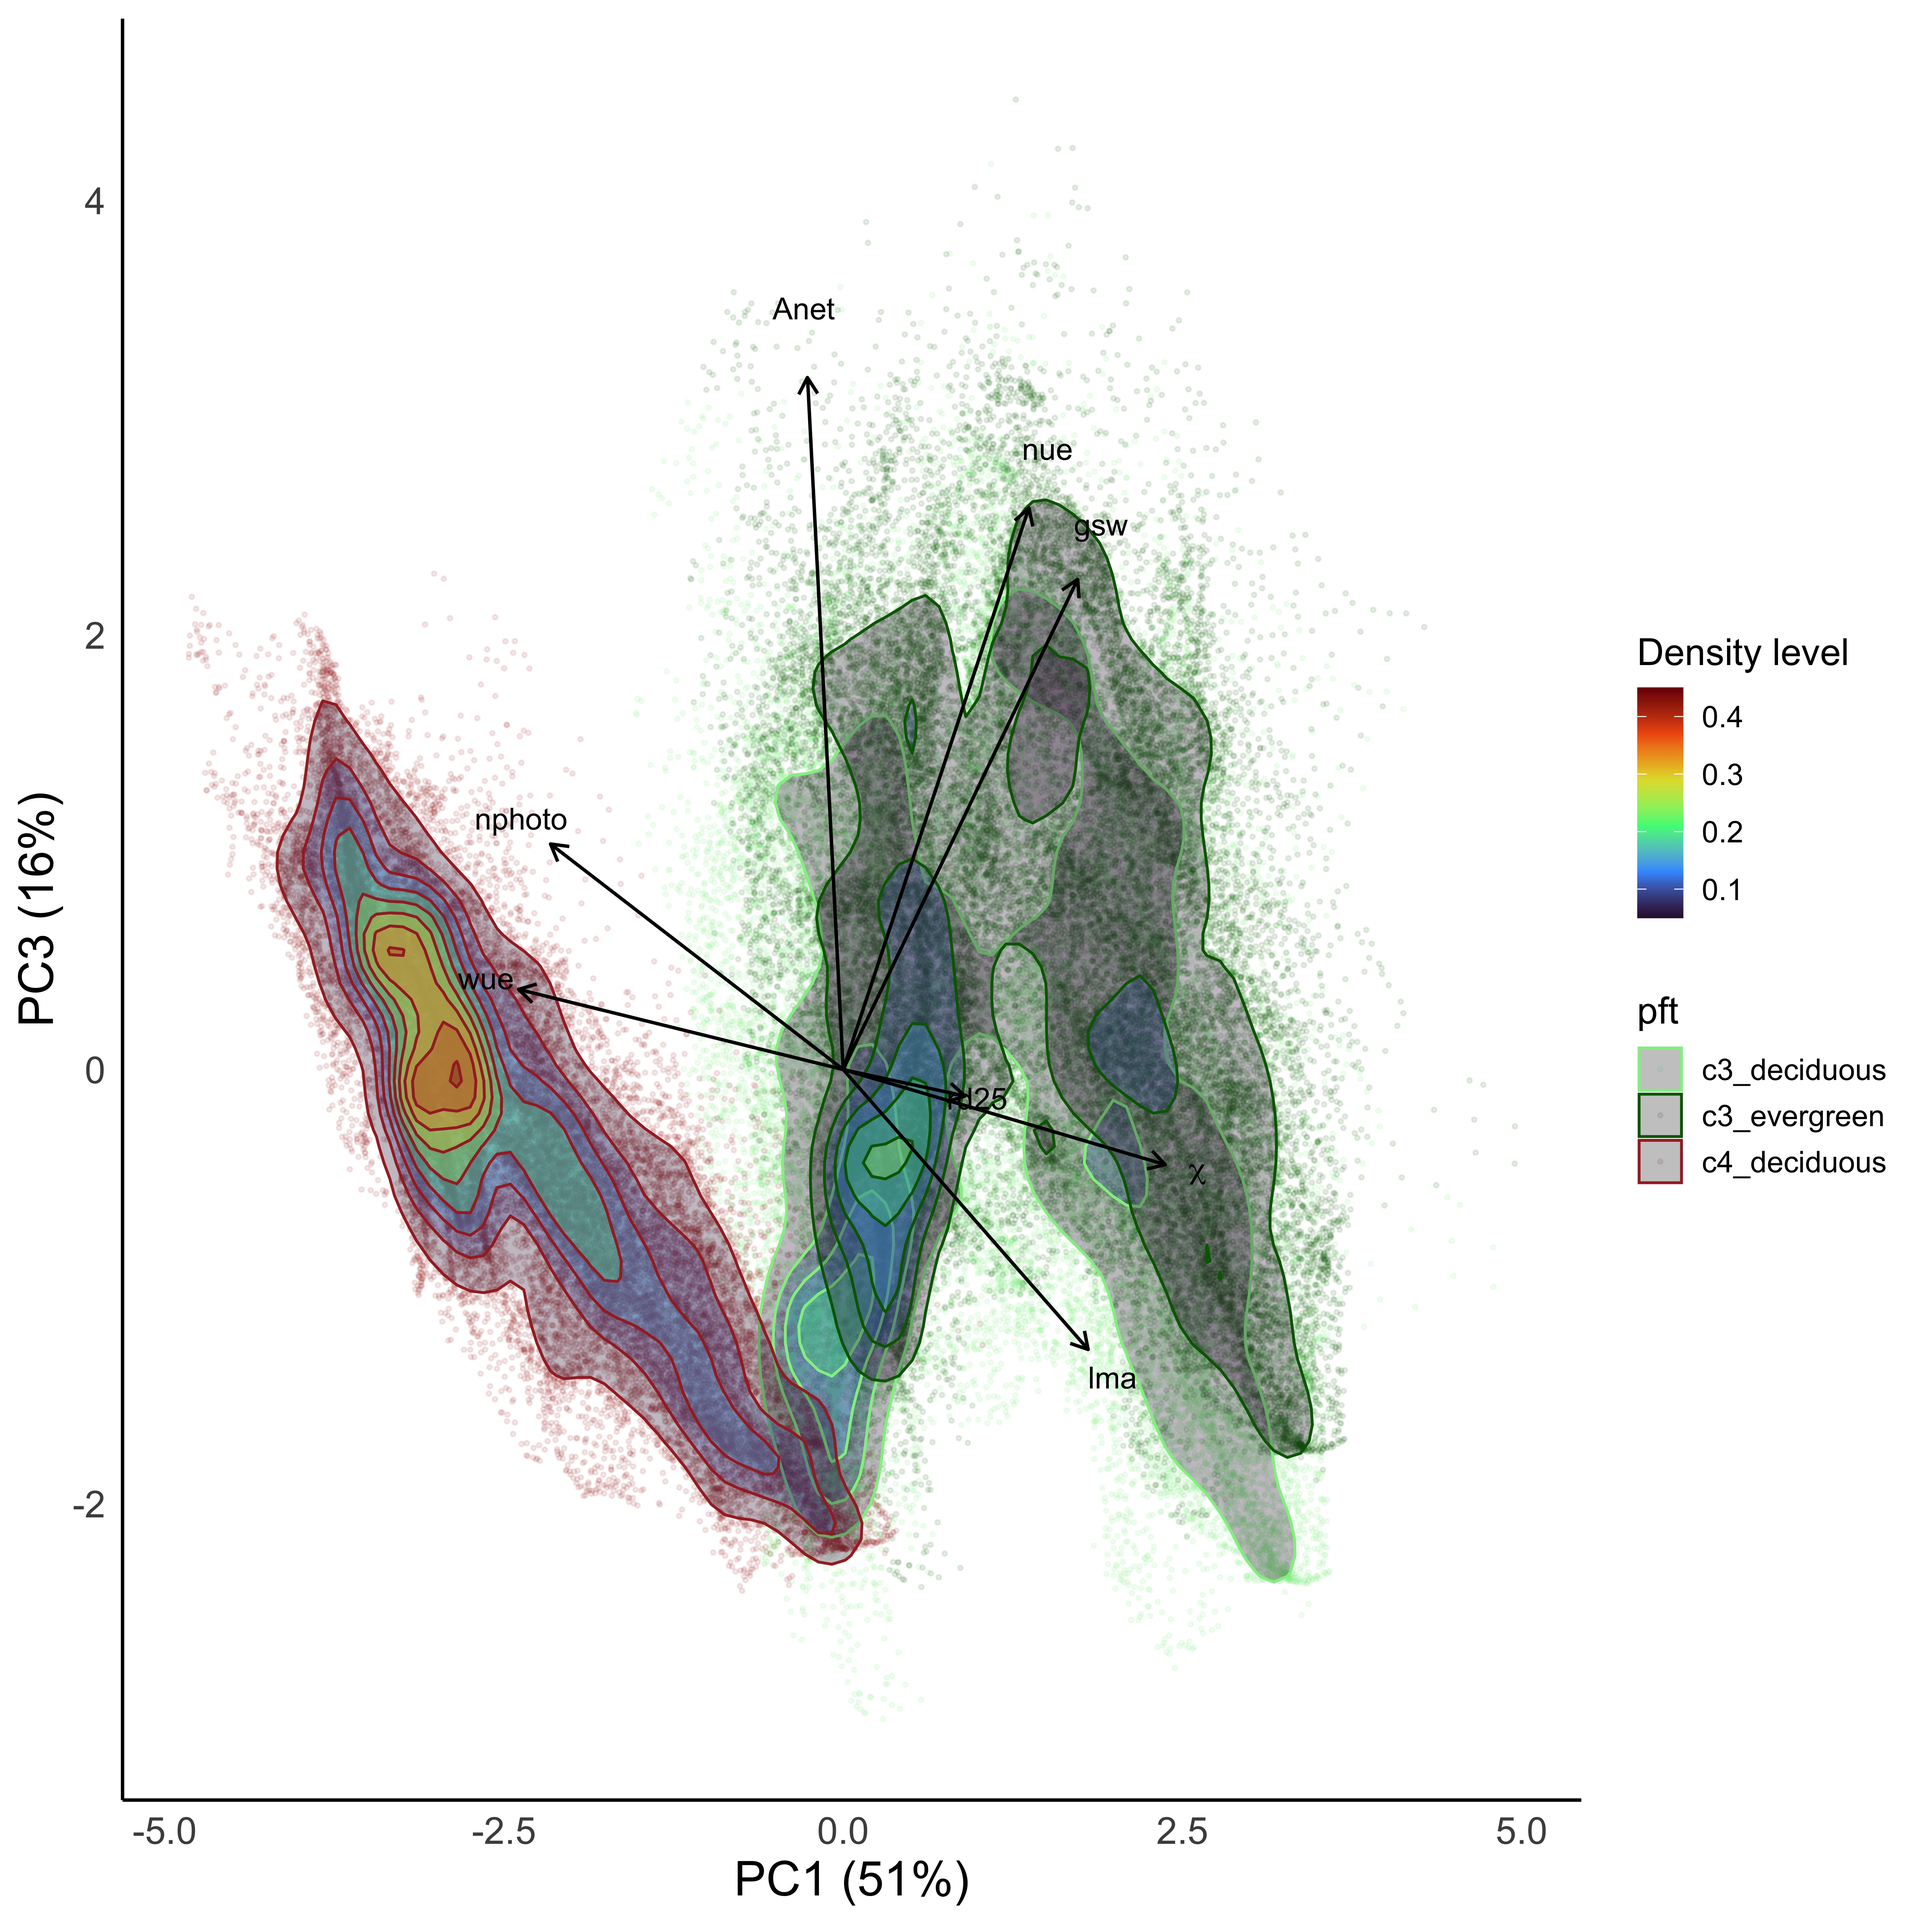
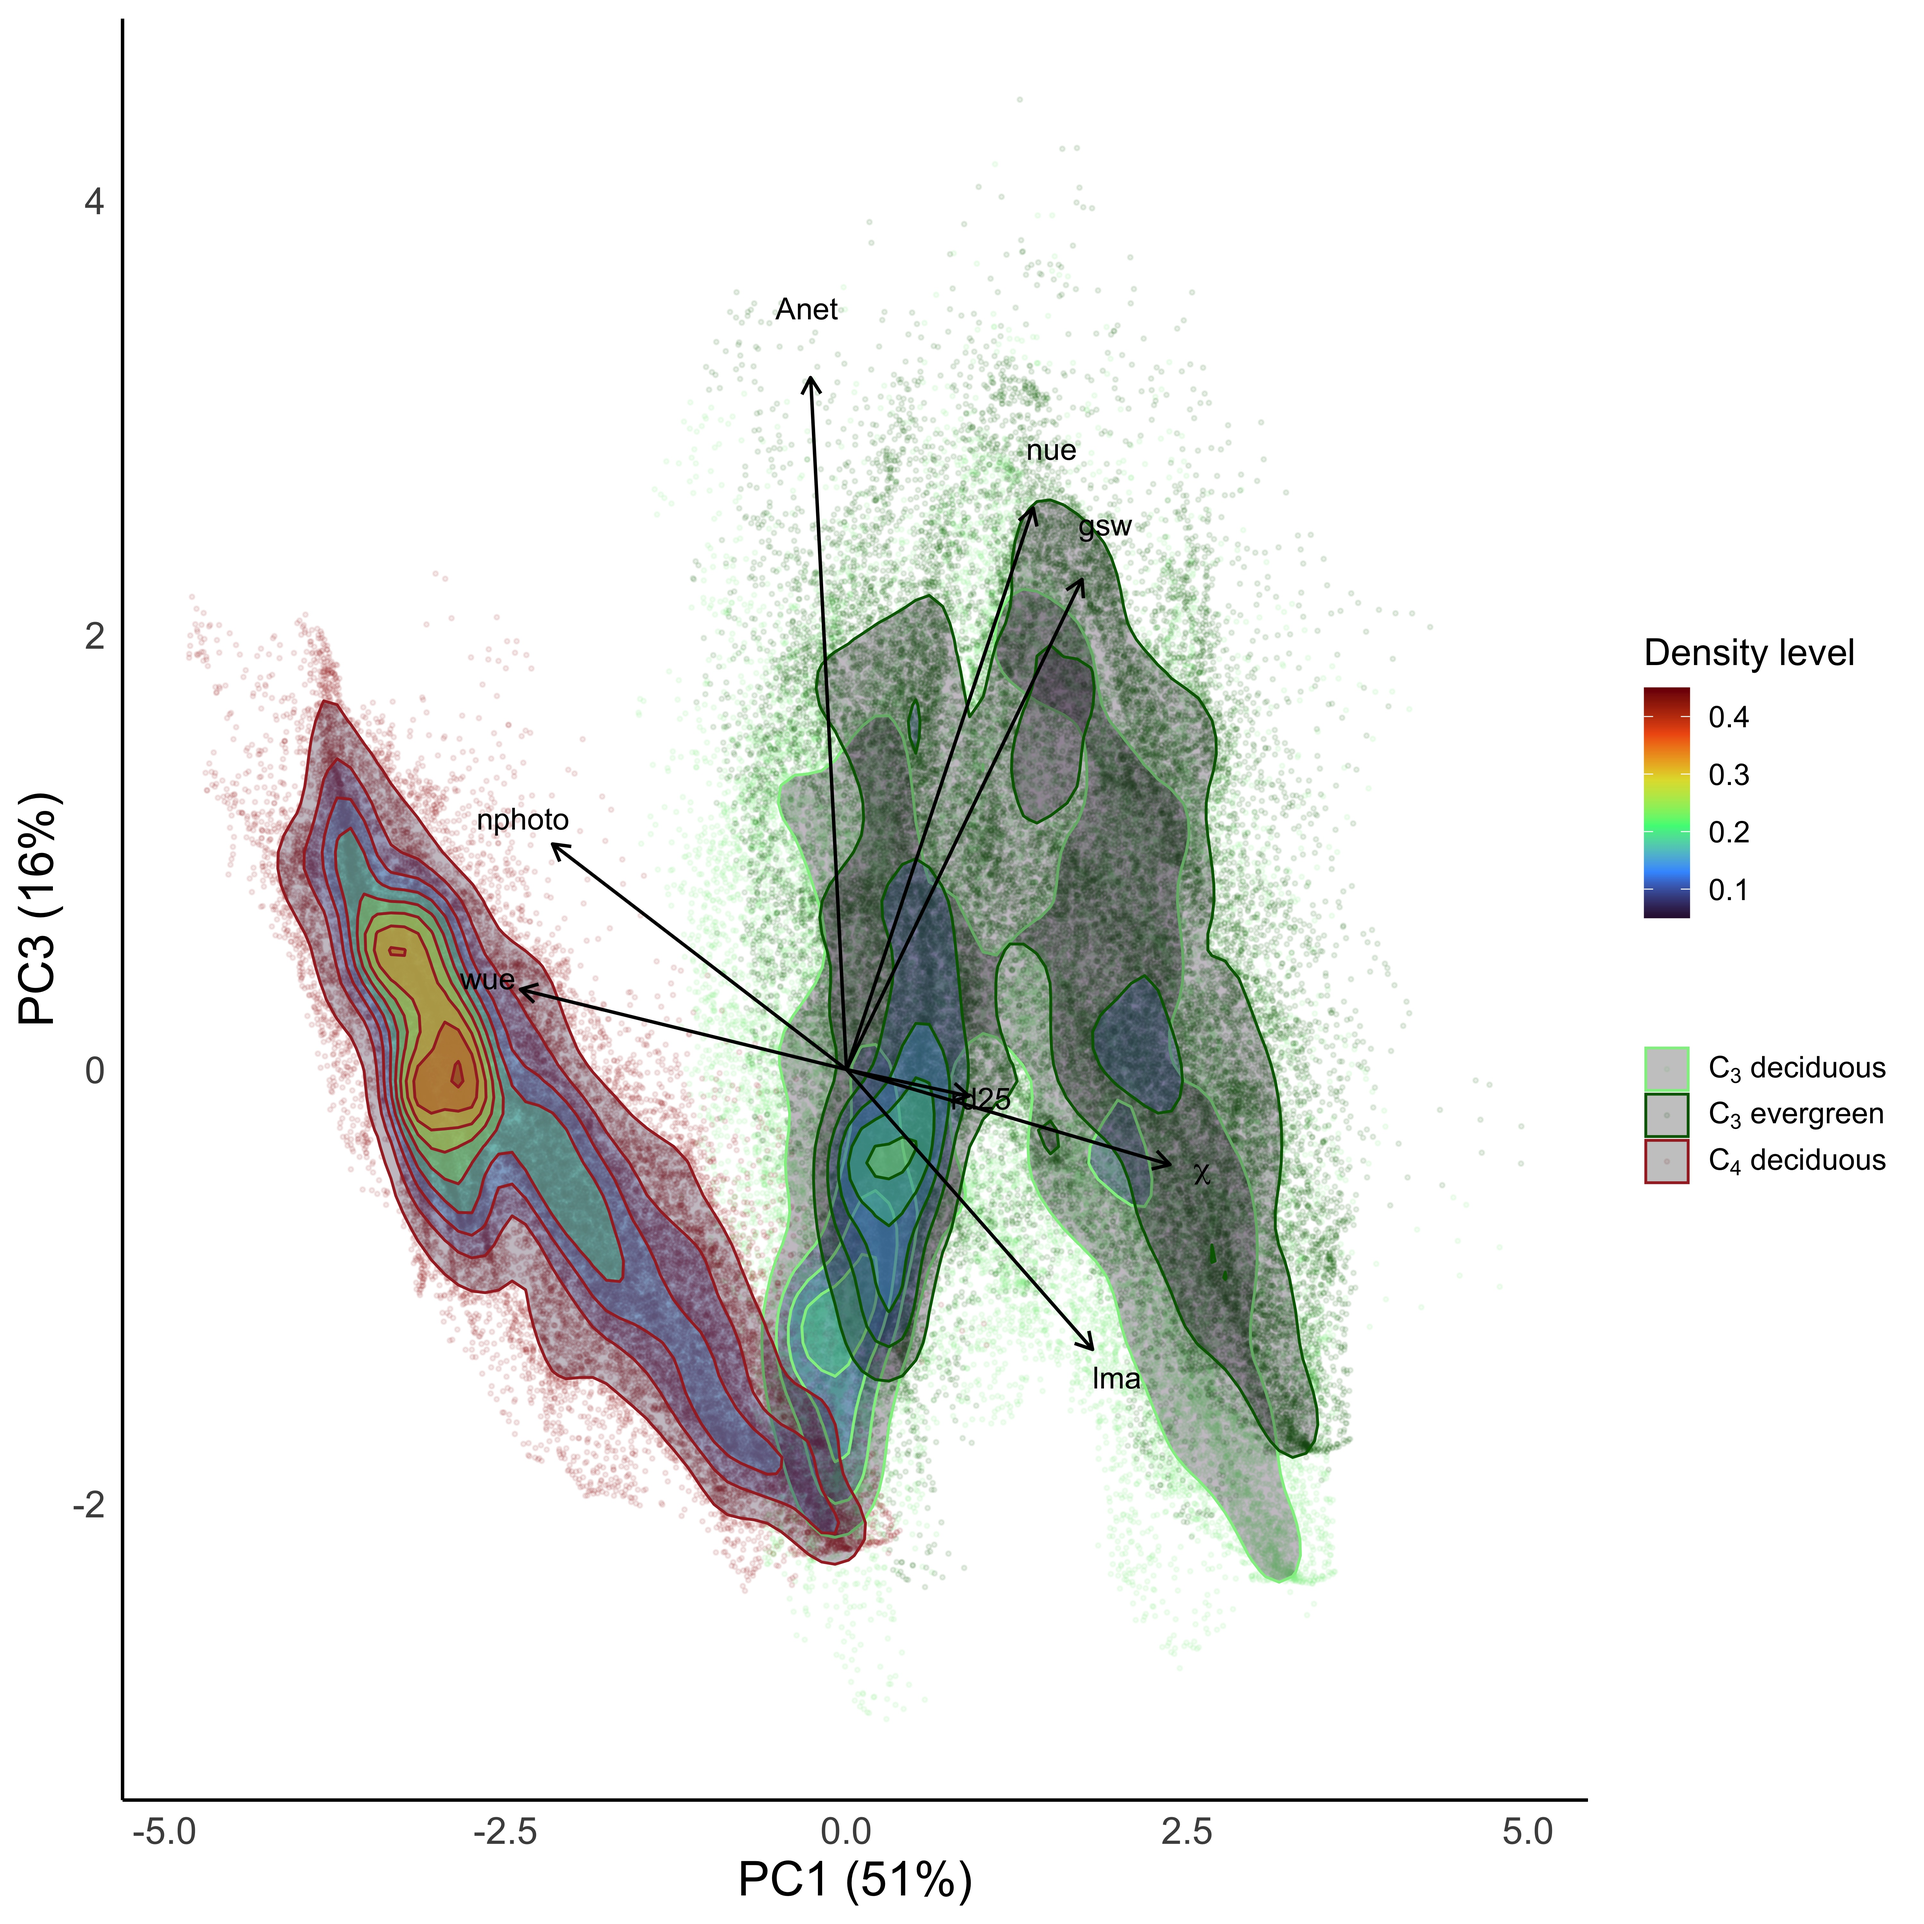
a little bit of work on point 3

diff --git a/notes.md b/notes.md
@@ -75,7 +75,16 @@ interpretable PCA plots
 		- analysis: confirmation of PFT strategies across environments
 		- stage: plots complete
 			- [global trait historgram plot](results/plots/global_optimal_traits_hist_all.jpeg)
-- to do: work on points 3 and 4 (start line 688)
+	3. within-site variability can be predicted through simulating variability in costs and environment
+		- figure: PCA for a select number of NEON sites representing:
+			- c4 grassland
+			- temp deciduous
+			- temp evergreem
+			- temp mixed
+		- analysis: TBD, where is there the most variability?
+		- stage: simulations done, figure need tweaked
+- to do: work on points 3 and 4 (or remove 4?)
+	- finesse figure for 3
 
 
 
